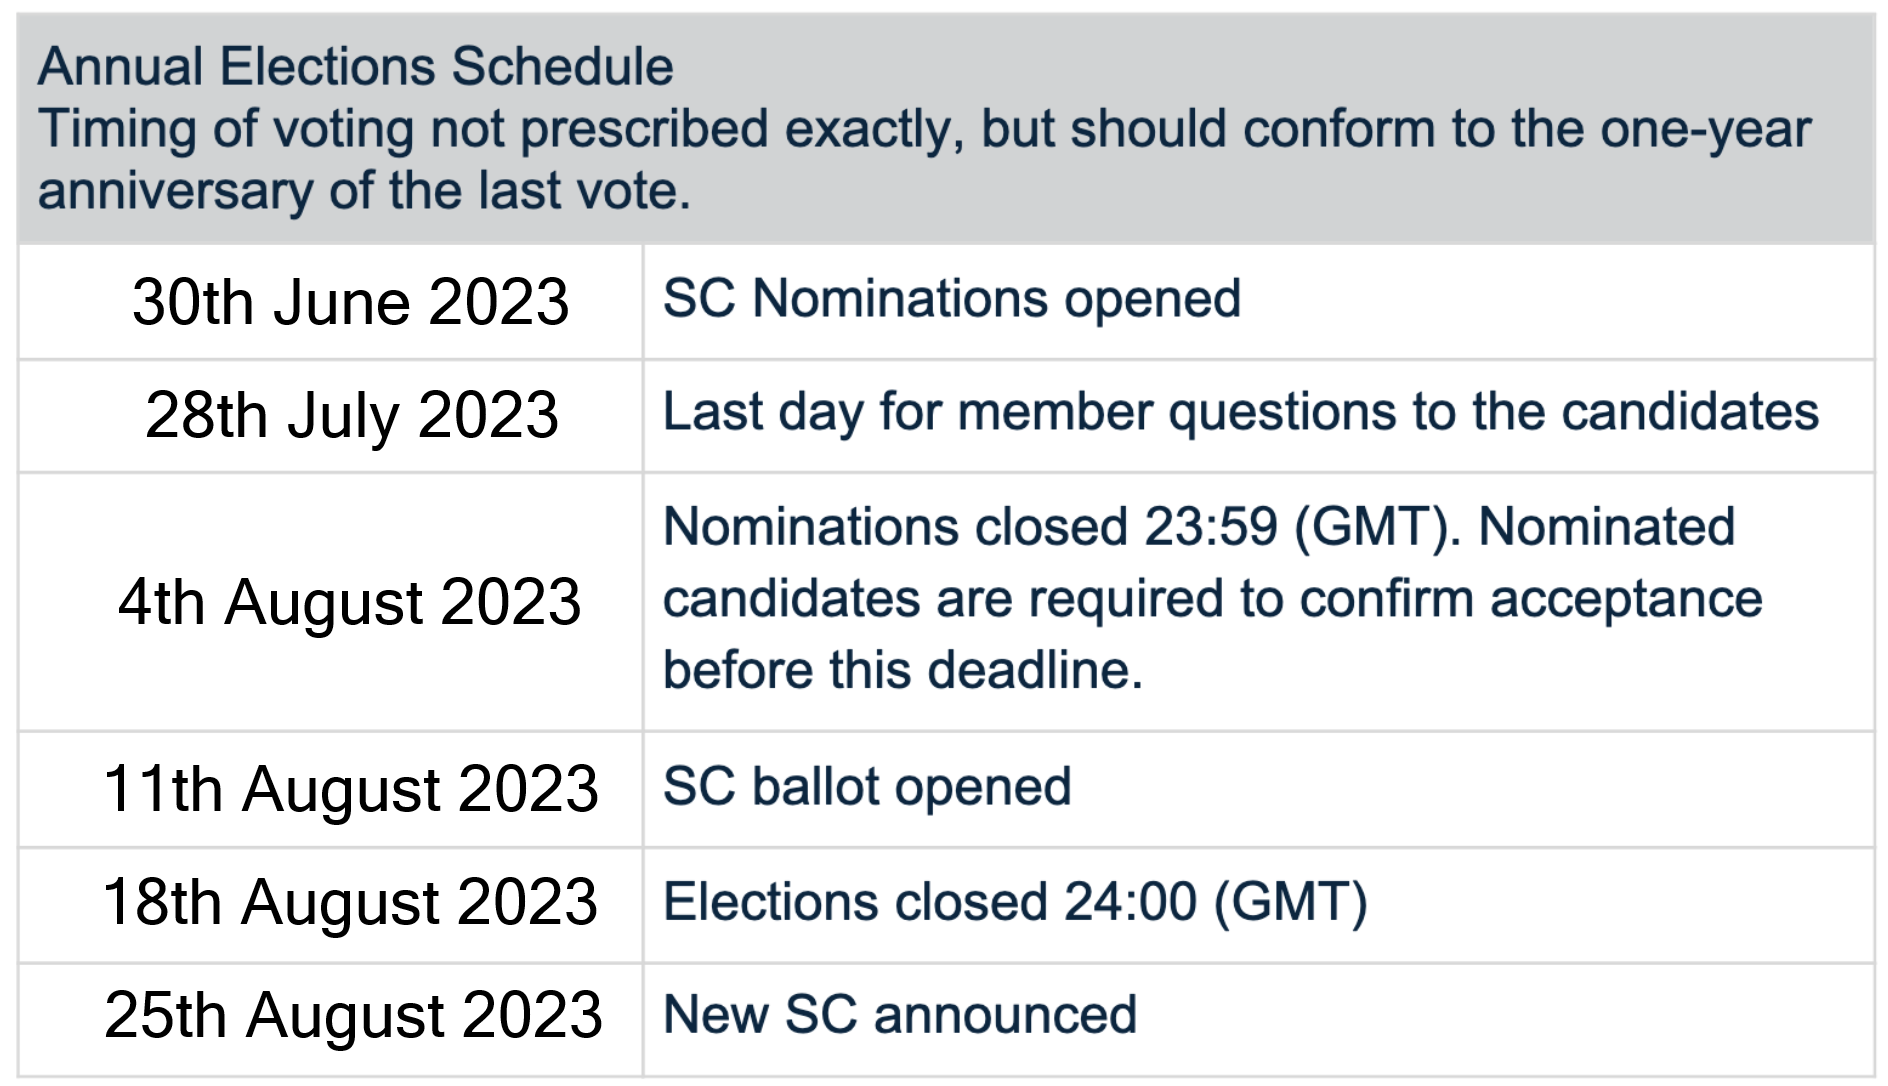
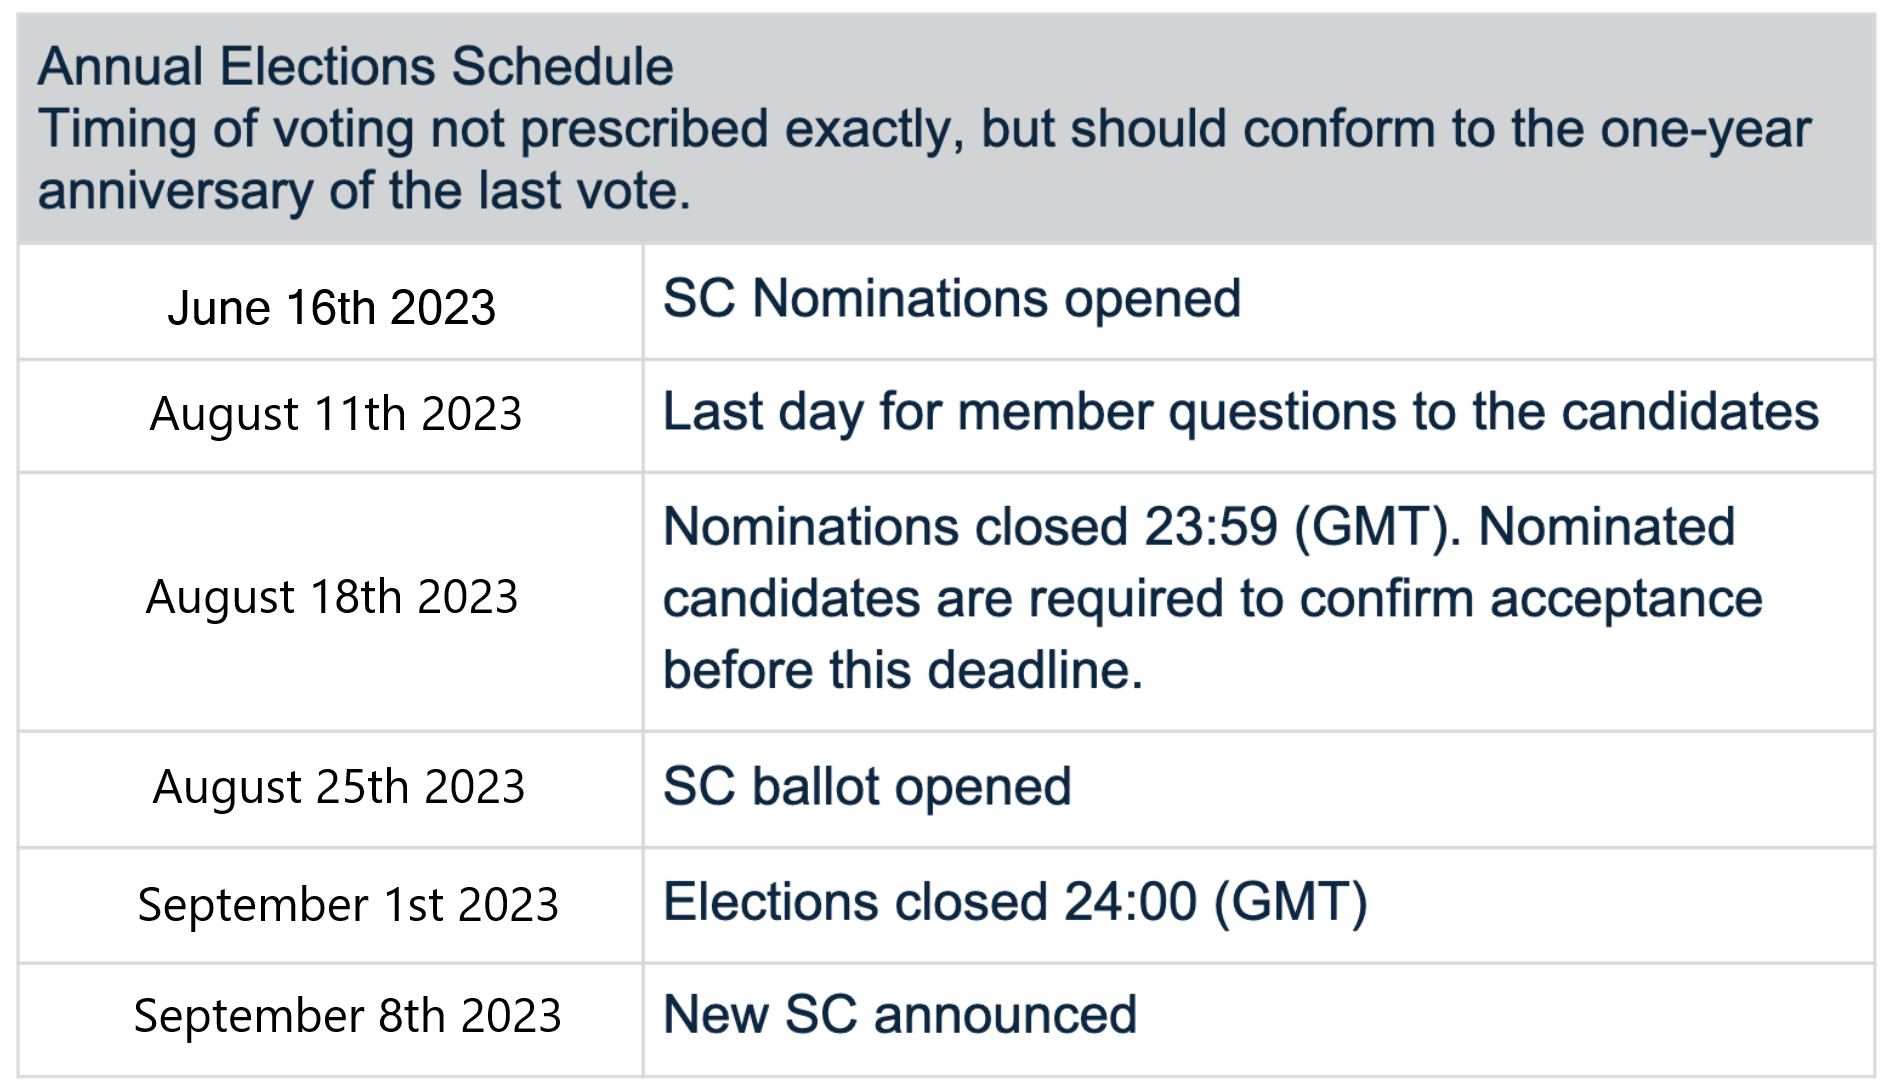
Election timeframe updates

diff --git a/templates/pages/election2023/index.html b/templates/pages/election2023/index.html
@@ -83,7 +83,7 @@
             <li>These will be audited confidentially and not published in any way (not even as tallies). </li>
             <li>If one member organization accidentally votes more than once, DIF staff will reply to the emails to clarify the issue, so please use a monitored/normal email address in the organization's domain rather than personal accounts or "alts." </li>
             <li>All ballots are assumed to be collective/company-wide decisions even if multiple are received.</li>
-            <li>The voting is open between the 11th and the 18th of August. The deadline for the last vote is 23:59 GMT on the 18th of August.</li>
+            <li>The voting is open between August 25th and the 1st of September 2023. The deadline for the last vote is 23:59 GMT on the 1st of September.</li>
           </lu>
           </div>
           <div class="section-title text-center">
